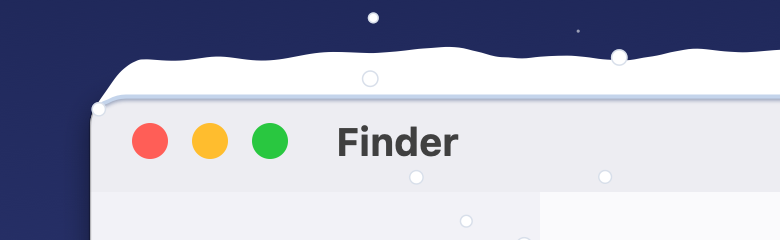
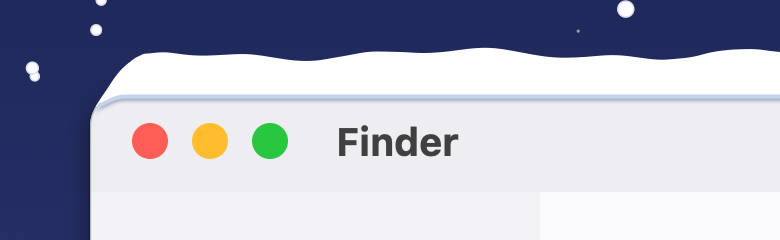
내리는 눈송이를 앱 창 뒤로
- 화면마다 오버레이 창을 둘로 나눔: 바탕화면 아이콘 바로 위(눈송이)와 Dock 위(눈 더미·눈사람·제설차)
- 메뉴 '눈송이 창 위로' (기본 꺼짐, 저장됨)
- 쇼케이스도 눈송이를 가짜 창 뒤에 합성, docs 이미지 다시 생성

diff --git a/Sources/main.swift b/Sources/main.swift
@@ -20,10 +20,12 @@ enum Intensity: Int, CaseIterable {
 final class Settings {
     static let shared = Settings()
     private let d = UserDefaults.standard
-    init() { d.register(defaults: ["snowOn": true, "intensity": 1, "snowmenOn": true, "autoPlow": true]) }
+    init() { d.register(defaults: ["snowOn": true, "intensity": 1, "snowmenOn": true, "autoPlow": true, "flakesOnTop": false]) }
     var snowOn: Bool { get { d.bool(forKey: "snowOn") } set { d.set(newValue, forKey: "snowOn") } }
     var snowmenOn: Bool { get { d.bool(forKey: "snowmenOn") } set { d.set(newValue, forKey: "snowmenOn") } }
     var autoPlow: Bool { get { d.bool(forKey: "autoPlow") } set { d.set(newValue, forKey: "autoPlow") } }
+    /// false (default): falling flakes are drawn behind app windows, on the desktop only
+    var flakesOnTop: Bool { get { d.bool(forKey: "flakesOnTop") } set { d.set(newValue, forKey: "flakesOnTop") } }
     var intensity: Intensity {
         get { Intensity(rawValue: d.integer(forKey: "intensity")) ?? .normal }
         set { d.set(newValue.rawValue, forKey: "intensity") }
@@ -352,40 +354,58 @@ func makePlowLayer(px: CGFloat) -> (CALayer, CGFloat) {
 final class Overlay {
     let frame: CGRect          // global coordinates of the screen this overlay covers
     let screen: NSScreen?
-    let window: NSWindow?
+    let window: NSWindow?          // in front: piles, snowmen, plow (sit on window tops / the Dock)
+    let backWindow: NSWindow?      // desktop level: falling flakes, behind every app window
     let root: CALayer
+    let backRoot: CALayer
     let piles = CALayer()
     let actors = CALayer()
     let flakeRoot = CALayer()
 
     /// Offscreen overlay for the showcase renderer: same layers, no window.
     init(virtualFrame: CGRect) {
-        frame = virtualFrame; screen = nil; window = nil
-        root = CALayer()
-        root.frame = CGRect(origin: .zero, size: virtualFrame.size)
-        for l in [piles, actors, flakeRoot] as [CALayer] { l.frame = root.bounds; root.addSublayer(l) }
+        frame = virtualFrame; screen = nil; window = nil; backWindow = nil
+        root = CALayer(); backRoot = CALayer()
+        for r in [root, backRoot] { r.frame = CGRect(origin: .zero, size: virtualFrame.size) }
+        for l in [piles, actors] as [CALayer] { l.frame = root.bounds; root.addSublayer(l) }
+        flakeRoot.frame = root.bounds
+        setFlakesOnTop(Settings.shared.flakesOnTop)
+    }
+
+    static func makeWindow(_ screen: NSScreen, level: Int) -> (NSWindow, CALayer) {
+        let w = NSWindow(contentRect: screen.frame, styleMask: .borderless, backing: .buffered, defer: false)
+        w.isOpaque = false
+        w.backgroundColor = .clear
+        w.hasShadow = false
+        w.ignoresMouseEvents = true                  // click-through: every click reaches what's below
+        w.level = NSWindow.Level(rawValue: level)
+        w.collectionBehavior = [.canJoinAllSpaces, .stationary, .fullScreenAuxiliary, .ignoresCycle]
+        w.isReleasedWhenClosed = false
+        let view = NSView(frame: NSRect(origin: .zero, size: screen.frame.size))
+        view.wantsLayer = true
+        w.contentView = view
+        w.setFrame(screen.frame, display: false)
+        return (w, view.layer!)
     }
 
     init(screen: NSScreen) {
         self.screen = screen
         frame = screen.frame
-        let window = NSWindow(contentRect: screen.frame, styleMask: .borderless, backing: .buffered, defer: false)
-        self.window = window
-        window.isOpaque = false
-        window.backgroundColor = .clear
-        window.hasShadow = false
-        window.ignoresMouseEvents = true                  // click-through: every click reaches the real window
-        window.level = NSWindow.Level(rawValue: Int(CGWindowLevelForKey(.dockWindow)) + 1) // above Dock, below menu bar & menus
-        window.collectionBehavior = [.canJoinAllSpaces, .stationary, .fullScreenAuxiliary, .ignoresCycle]
-        window.isReleasedWhenClosed = false
-        let view = NSView(frame: NSRect(origin: .zero, size: screen.frame.size))
-        view.wantsLayer = true
-        root = view.layer!
-        window.contentView = view
-        window.setFrame(screen.frame, display: false)
+        // above Dock, below menu bar & menus
+        (window, root) = Overlay.makeWindow(screen, level: Int(CGWindowLevelForKey(.dockWindow)) + 1)
+        // above the wallpaper and desktop icons, below every normal window
+        (backWindow, backRoot) = Overlay.makeWindow(screen, level: Int(CGWindowLevelForKey(.desktopIconWindow)) + 1)
+        for l in [piles, actors] as [CALayer] { l.frame = root.bounds; root.addSublayer(l) }
+        flakeRoot.frame = root.bounds
+        setFlakesOnTop(Settings.shared.flakesOnTop)
+        window?.orderFrontRegardless()
+    }
 
-        for l in [piles, actors, flakeRoot] as [CALayer] { l.frame = root.bounds; root.addSublayer(l) }
-        window.orderFrontRegardless()
+    /// Falling flakes in front of everything (old behaviour) or behind app windows (default).
+    func setFlakesOnTop(_ top: Bool) {
+        let parent = top ? root : backRoot
+        if flakeRoot.superlayer !== parent { flakeRoot.removeFromSuperlayer(); parent.insertSublayer(flakeRoot, at: top ? 2 : 0) }
+        if top { backWindow?.orderOut(nil) } else { backWindow?.orderFrontRegardless() }
     }
 
     func local(_ p: CGPoint) -> CGPoint { CGPoint(x: p.x - frame.minX, y: p.y - frame.minY) }
@@ -677,7 +697,7 @@ final class Engine {
     }
 
     func rebuildOverlays() {
-        for o in overlays { o.window?.orderOut(nil) }
+        for o in overlays { o.window?.orderOut(nil); o.backWindow?.orderOut(nil) }
         dropAllFlakes()
         overlays = NSScreen.screens.map { Overlay(screen: $0) }
         pileViews.removeAll()
@@ -687,7 +707,12 @@ final class Engine {
         pileDirty = true
     }
 
-    func applySettings() { if !Settings.shared.snowmenOn { removeAllProps() } }
+    func applySettings() {
+        if !Settings.shared.snowmenOn { removeAllProps() }
+        CATransaction.begin(); CATransaction.setDisableActions(true)
+        for o in overlays { o.setFlakesOnTop(Settings.shared.flakesOnTop) }
+        CATransaction.commit()
+    }
 
     func clearSnow() { piles.removeAll(); dropAllFlakes(); pileDirty = true; geometryChanged = true; removeAllProps() }
     func removeAllProps() { props.forEach { $0.remove() }; props.removeAll() }
@@ -1431,6 +1456,7 @@ final class AppDelegate: NSObject, NSApplicationDelegate, NSMenuDelegate {
         menu.addItem(parent)
         add("눈사람 (Snowmen) — 제목줄 클릭 / 눈 굴리기", #selector(toggleSnowmen), on: s.snowmenOn)
         add("제설차 자동 (Auto plow)", #selector(toggleAutoPlow), on: s.autoPlow)
+        add("눈송이 창 위로 (Flakes over windows)", #selector(toggleFlakesOnTop), on: s.flakesOnTop)
         menu.addItem(.separator())
         add("지금 Dock 제설 (Plow the Dock now)", #selector(plowNow))
         add("앞 창에 눈사람 놓기 (Debug)", #selector(debugSpawn))
@@ -1442,6 +1468,7 @@ final class AppDelegate: NSObject, NSApplicationDelegate, NSMenuDelegate {
     @objc func toggleSnow() { Settings.shared.snowOn.toggle(); engine.updateRate() }
     @objc func toggleSnowmen() { Settings.shared.snowmenOn.toggle(); engine.applySettings() }
     @objc func toggleAutoPlow() { Settings.shared.autoPlow.toggle() }
+    @objc func toggleFlakesOnTop() { Settings.shared.flakesOnTop.toggle(); engine.applySettings() }
     @objc func setIntensity(_ i: NSMenuItem) { Settings.shared.intensity = Intensity(rawValue: i.tag) ?? .normal }
     @objc func plowNow() { engine.startPlow() }
     @objc func debugSpawn() { engine.spawnDemoSnowmen() }

diff --git a/Sources/Showcase.swift b/Sources/Showcase.swift
@@ -29,7 +29,7 @@ enum Showcase {
 
     static func run(outDir: String) {
         // fixed settings for the run only (argument domain: never written to disk)
-        UserDefaults.standard.setVolatileDomain(["snowOn": true, "intensity": 1, "snowmenOn": true, "autoPlow": false],
+        UserDefaults.standard.setVolatileDomain(["snowOn": true, "intensity": 1, "snowmenOn": true, "autoPlow": false, "flakesOnTop": false],
                                                 forName: UserDefaults.argumentDomain)
         S = 1.15
         let fm = FileManager.default
@@ -134,6 +134,7 @@ enum Showcase {
         let ns = NSGraphicsContext(cgContext: ctx, flipped: false)
         NSGraphicsContext.saveGraphicsState(); NSGraphicsContext.current = ns
         drawWallpaper(ctx)
+        e.overlays[0].backRoot.render(in: ctx)          // falling flakes: behind the windows and the Dock
         for w in fake.list.reversed() where w.visible { drawWindow(ctx, w) }
         drawDock(ctx)
         // plow beacon blink (the real app does this with a CA animation)

diff --git a/README.md b/README.md
@@ -11,7 +11,7 @@
 
 ## 기능
 
-- **눈 내리기**: 화면 전체에 하얀 눈송이가 천천히 똑바로 내려요. 모든 창 위에 그려지지만 클릭은 그대로 아래 창으로 통과해요.
+- **눈 내리기**: 화면 전체에 하얀 눈송이가 천천히 똑바로 내려요. 내리는 눈송이는 앱 창 뒤(바탕화면 위)로 지나가서 창 내용을 가리지 않아요. 창 윗면이나 Dock에 닿은 눈은 앞쪽에 쌓여 보여요. 클릭은 전부 그대로 통과해요.
 - **창·Dock 위에 쌓임**: 눈송이가 창 윗면이나 Dock 윗면에 닿으면 그 자리에 쌓여요. 창이 겹쳐 있으면 일부는 뒤쪽 창이나 Dock까지 떨어져요. 앞 창에 가려진 부분은 그 창의 둥근 모서리 모양대로 가려지고, 눈 더미 끝은 창 모서리를 따라 자연스럽게 얇아져요.
 - **창 드래그 따라가기**: 창을 끌고 다니면 쌓인 눈과 눈사람이 마우스 움직임에 맞춰 바로 따라오고, 옮긴 자리에서도 계속 쌓여요.
 - **눈 굴려 눈사람 만들기**: 창 위에 쌓인 눈을 마우스로 좌우로 문지르듯 드래그하면 눈덩이가 굴러가며 커지고, 지나간 자리의 눈은 줄어요. 충분히 크면 손을 놓는 순간 산타 모자 눈사람이 뿅 하고 생기고, 작으면 눈덩이로 남아요. (창 자체가 움직이면 창 드래그로 보고 굴리기를 취소해요.)
@@ -69,6 +69,7 @@ open /Applications/MacSnow.app
 | 세기 | 약하게 / 보통 / 많이 |
 | 눈사람 | 제목줄 클릭·눈 굴리기로 눈사람 만들기 켜기/끄기 |
 | 제설차 자동 | Dock에 눈이 쌓이면 제설차가 가끔 알아서 지나가기 |
+| 눈송이 창 위로 | 켜면 예전처럼 내리는 눈송이를 모든 창 앞에 그려요 (기본: 꺼짐 = 창 뒤) |
 | 지금 Dock 제설 | 제설차 바로 부르기 |
 | 앞 창에 눈사람 놓기 | 맨 앞 창들에 눈사람 바로 놓기 |
 | 눈 치우기 | 쌓인 눈과 눈사람 모두 지우기 |
